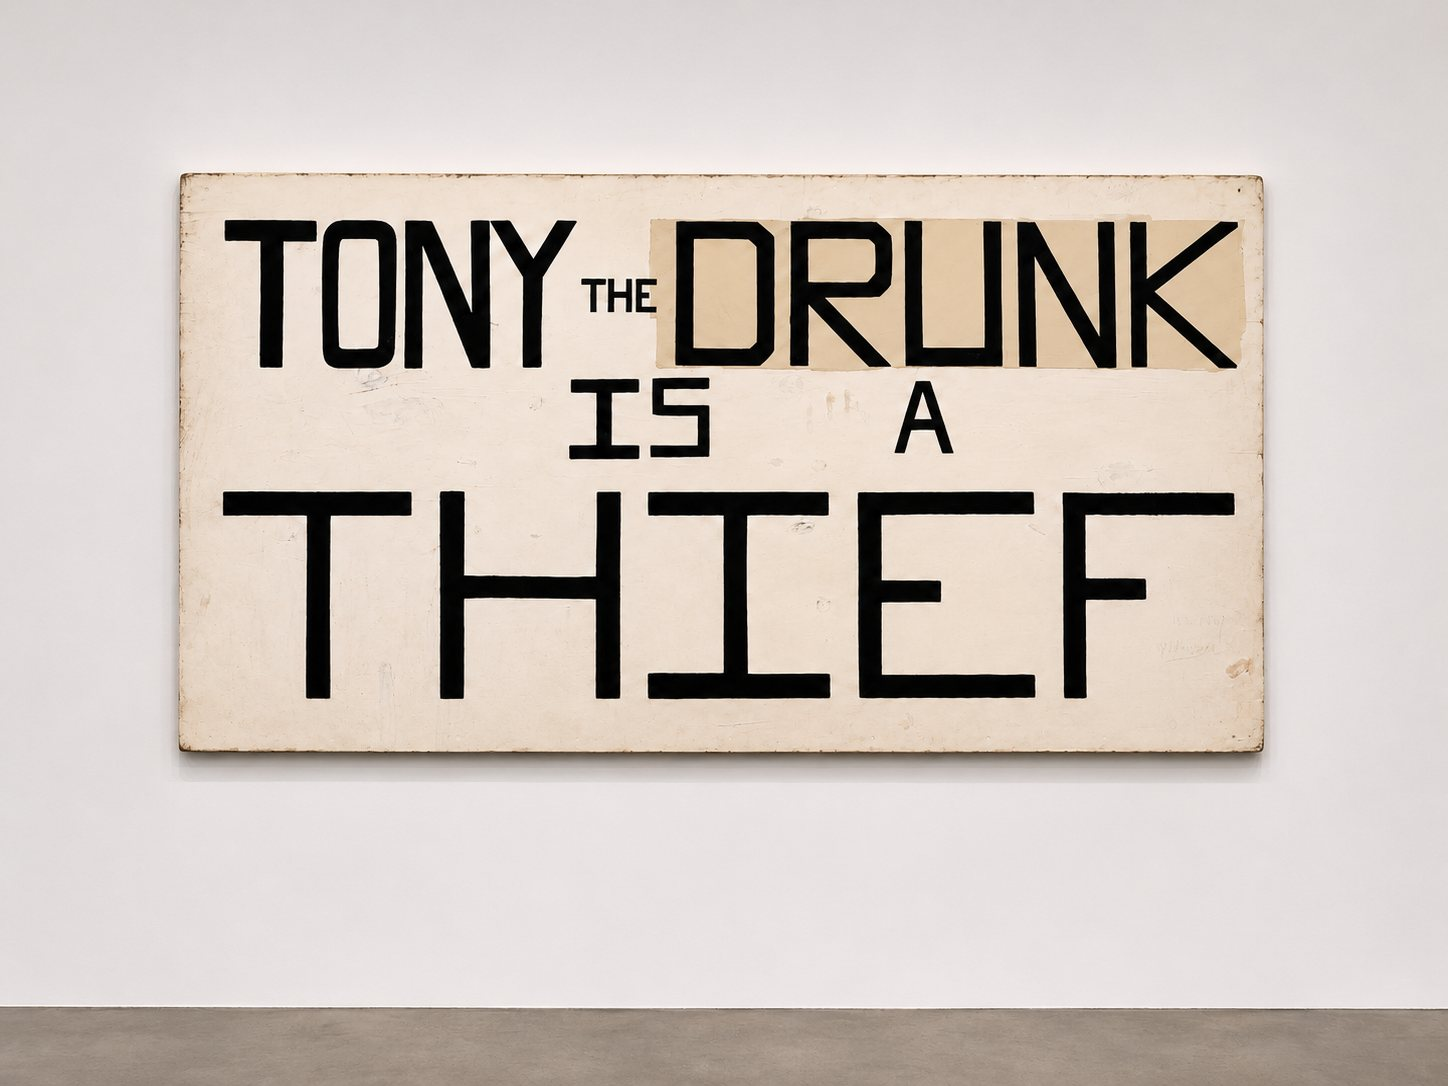
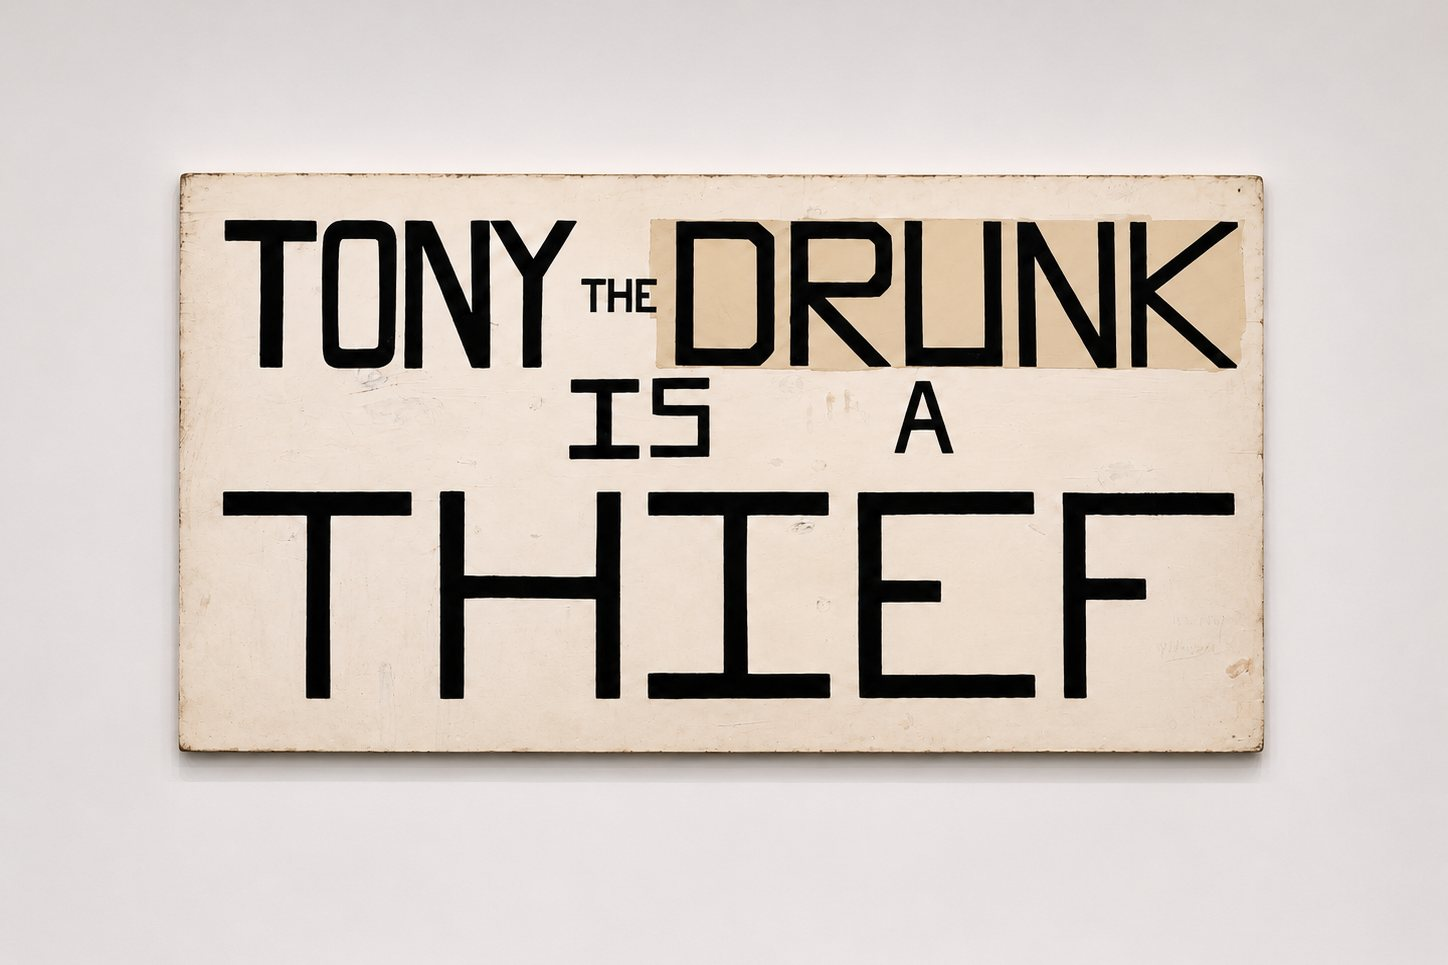
Tony the Drunk Is a Thief: cropped lead image
Claude-Session: https://claude.ai/code/session_01JVoaYGW79WXXRpj5iE4Fxm

diff --git a/index.html b/index.html
@@ -6,5 +6,5 @@
 <link rel="stylesheet" href="style.css?v=25aeed13">
 </head><body>
 <header><a class="name" href="index.html">Abraham Adams</a><nav><a href="index.html" aria-current="page">works</a><a href="books.html">books</a><a href="exhibitions.html">exhibitions</a><a href="info.html">info</a></nav></header>
-<main><h1 class="sr">Works</h1><div class="grid"><a class="tile" href="works/variations-for-the-healing.html"><span class="frame"><img src="img/variations-for-the-healing-01-t.jpg?v=fa79aa3e" width="600" height="900" alt="Variations for the Healing" loading="lazy"></span><span class="label"><em>Variations for the Healing</em>, 2025–26</span></a><a class="tile" href="works/a-conversation-about-trees.html"><span class="frame"><img src="img/a-conversation-about-trees-01-t.jpg?v=6b8445a5" width="900" height="675" alt="A Conversation About Trees" loading="lazy"></span><span class="label"><em>A Conversation About Trees</em>, 2025</span></a><a class="tile" href="works/more-heavens.html"><span class="frame"><img src="img/more-heavens-01-t.jpg?v=10669583" width="900" height="600" alt="More Heavens" loading="lazy"></span><span class="label">“More Heavens,” 2025–</span></a><a class="tile" href="works/acheiropoieta.html"><span class="frame"><img src="img/acheiropoieta-01-t.jpg?v=4d309b16" width="671" height="900" alt="Acheiropoieta" loading="lazy"></span><span class="label">“Acheiropoieta,” 2025</span></a><a class="tile" href="works/contact.html"><span class="frame"><img src="img/contact-01-t.jpg?v=4efacc83" width="720" height="900" alt="Contact" loading="lazy"></span><span class="label">“Contact,” 2024–</span></a><a class="tile" href="works/after.html"><span class="frame"><img src="img/after-01-t.jpg?v=29d5f685" width="900" height="675" alt="After" loading="lazy"></span><span class="label">“After,” 2021–</span></a><a class="tile" href="works/ambulance-chasers.html"><span class="frame"><img src="img/ambulance-chasers-01-t.jpg?v=eb1b77d2" width="900" height="810" alt="Ambulance Chasers" loading="lazy"></span><span class="label"><em>Ambulance Chasers</em>, 2022</span></a><a class="tile" href="works/tony-the-drunk-is-a-thief.html"><span class="frame"><img src="img/tony-the-drunk-is-a-thief-01-t.jpg?v=18acef5d" width="900" height="675" alt="Tony the Drunk Is a Thief" loading="lazy"></span><span class="label"><em>Tony the Drunk Is a Thief</em>, 2018</span></a><a class="tile" href="works/nothing-in-moma.html"><span class="frame"><img src="img/nothing-in-moma-01-t.jpg?v=5e39706f" width="900" height="600" alt="Nothing in MoMA" loading="lazy"></span><span class="label"><em>Nothing in MoMA</em>, 2018</span></a><a class="tile" href="works/before.html"><span class="frame"><img src="img/before-01-t.jpg?v=98168e20" width="900" height="720" alt="Before" loading="lazy"></span><span class="label">“Before,” 2016–</span></a><a class="tile" href="works/my-dark-blue-rain-drenched-flower.html"><span class="frame"><img src="img/my-dark-blue-rain-drenched-flower-01-t.jpg?v=5946757f" width="900" height="637" alt="My Dark-Blue Rain-Drenched Flower" loading="lazy"></span><span class="label"><em>My Dark-Blue Rain-Drenched Flower</em>, 2015</span></a><a class="tile" href="works/installation-for-a-photograph.html"><span class="frame"><img src="img/installation-for-a-photograph-01-t.jpg?v=0d1e7c6d" width="674" height="900" alt="Installation for a Photograph" loading="lazy"></span><span class="label"><em>Installation for a Photograph</em>, 2014–15</span></a></div></main>
+<main><h1 class="sr">Works</h1><div class="grid"><a class="tile" href="works/variations-for-the-healing.html"><span class="frame"><img src="img/variations-for-the-healing-01-t.jpg?v=fa79aa3e" width="600" height="900" alt="Variations for the Healing" loading="lazy"></span><span class="label"><em>Variations for the Healing</em>, 2025–26</span></a><a class="tile" href="works/a-conversation-about-trees.html"><span class="frame"><img src="img/a-conversation-about-trees-01-t.jpg?v=6b8445a5" width="900" height="675" alt="A Conversation About Trees" loading="lazy"></span><span class="label"><em>A Conversation About Trees</em>, 2025</span></a><a class="tile" href="works/more-heavens.html"><span class="frame"><img src="img/more-heavens-01-t.jpg?v=10669583" width="900" height="600" alt="More Heavens" loading="lazy"></span><span class="label">“More Heavens,” 2025–</span></a><a class="tile" href="works/acheiropoieta.html"><span class="frame"><img src="img/acheiropoieta-01-t.jpg?v=4d309b16" width="671" height="900" alt="Acheiropoieta" loading="lazy"></span><span class="label">“Acheiropoieta,” 2025</span></a><a class="tile" href="works/contact.html"><span class="frame"><img src="img/contact-01-t.jpg?v=4efacc83" width="720" height="900" alt="Contact" loading="lazy"></span><span class="label">“Contact,” 2024–</span></a><a class="tile" href="works/after.html"><span class="frame"><img src="img/after-01-t.jpg?v=29d5f685" width="900" height="675" alt="After" loading="lazy"></span><span class="label">“After,” 2021–</span></a><a class="tile" href="works/ambulance-chasers.html"><span class="frame"><img src="img/ambulance-chasers-01-t.jpg?v=eb1b77d2" width="900" height="810" alt="Ambulance Chasers" loading="lazy"></span><span class="label"><em>Ambulance Chasers</em>, 2022</span></a><a class="tile" href="works/tony-the-drunk-is-a-thief.html"><span class="frame"><img src="img/tony-the-drunk-is-a-thief-01-t.jpg?v=db6cf9e8" width="900" height="600" alt="Tony the Drunk Is a Thief" loading="lazy"></span><span class="label"><em>Tony the Drunk Is a Thief</em>, 2018</span></a><a class="tile" href="works/nothing-in-moma.html"><span class="frame"><img src="img/nothing-in-moma-01-t.jpg?v=5e39706f" width="900" height="600" alt="Nothing in MoMA" loading="lazy"></span><span class="label"><em>Nothing in MoMA</em>, 2018</span></a><a class="tile" href="works/before.html"><span class="frame"><img src="img/before-01-t.jpg?v=98168e20" width="900" height="720" alt="Before" loading="lazy"></span><span class="label">“Before,” 2016–</span></a><a class="tile" href="works/my-dark-blue-rain-drenched-flower.html"><span class="frame"><img src="img/my-dark-blue-rain-drenched-flower-01-t.jpg?v=5946757f" width="900" height="637" alt="My Dark-Blue Rain-Drenched Flower" loading="lazy"></span><span class="label"><em>My Dark-Blue Rain-Drenched Flower</em>, 2015</span></a><a class="tile" href="works/installation-for-a-photograph.html"><span class="frame"><img src="img/installation-for-a-photograph-01-t.jpg?v=0d1e7c6d" width="674" height="900" alt="Installation for a Photograph" loading="lazy"></span><span class="label"><em>Installation for a Photograph</em>, 2014–15</span></a></div></main>
 </body></html>

diff --git a/works/tony-the-drunk-is-a-thief.html b/works/tony-the-drunk-is-a-thief.html
@@ -6,5 +6,5 @@
 <link rel="stylesheet" href="../style.css?v=25aeed13">
 </head><body>
 <header><a class="name" href="../index.html">Abraham Adams</a><nav><a href="../index.html" aria-current="page">works</a><a href="../books.html">books</a><a href="../exhibitions.html">exhibitions</a><a href="../info.html">info</a></nav></header>
-<main><article class="work"><h1><em>Tony the Drunk Is a Thief</em>, 2018</h1><p class="desc"><em>Tony the Drunk Is a Thief</em> is a replica of a roadside sign from rural New Hampshire.</p><figure><img src="../img/tony-the-drunk-is-a-thief-01.jpg?v=e101c1b5" width="1448" height="1086" alt="Tony the Drunk Is a Thief, 2018" loading="eager"><figcaption>Tony the Drunk Is a Thief, 2018. Acrylic paint on wood, 2 × 3 m.</figcaption></figure><figure><img src="../img/tony-the-drunk-is-a-thief-02.jpg?v=7ca67168" width="1067" height="1600" alt="Detail" loading="lazy"><figcaption>Detail.</figcaption></figure></article></main>
+<main><article class="work"><h1><em>Tony the Drunk Is a Thief</em>, 2018</h1><p class="desc"><em>Tony the Drunk Is a Thief</em> is a replica of a roadside sign from rural New Hampshire.</p><figure><img src="../img/tony-the-drunk-is-a-thief-01.jpg?v=fbfc5f14" width="1448" height="965" alt="Tony the Drunk Is a Thief, 2018" loading="eager"><figcaption>Tony the Drunk Is a Thief, 2018. Acrylic paint on wood, 2 × 3 m.</figcaption></figure><figure><img src="../img/tony-the-drunk-is-a-thief-02.jpg?v=7ca67168" width="1067" height="1600" alt="Detail" loading="lazy"><figcaption>Detail.</figcaption></figure></article></main>
 </body></html>
